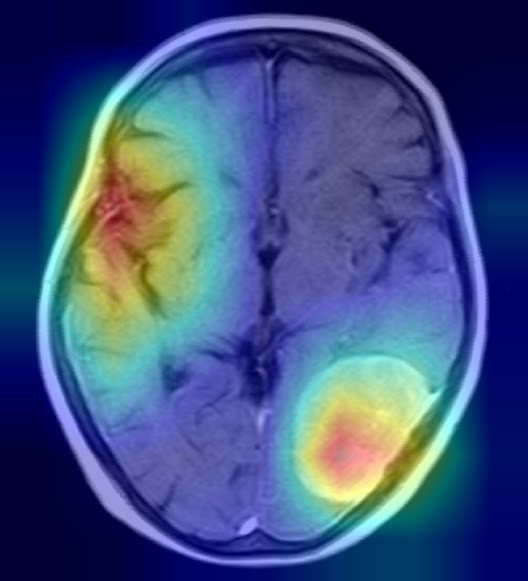
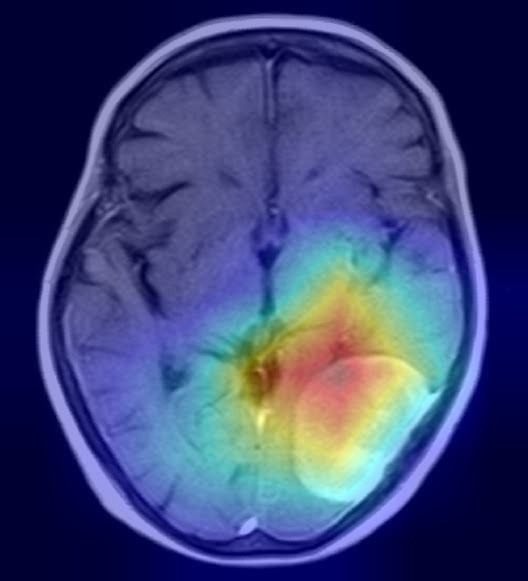
fixed

diff --git a/app.py b/app.py
@@ -1,94 +1,86 @@
+from flask import Flask, render_template, request
 import os
-import uuid
 import numpy as np
+from ultralytics import YOLO
 import google.generativeai as genai
 import tensorflow as tf
+from tensorflow.keras.models import load_model
 import cv2
 import matplotlib
 import markdown
-from flask import Flask, render_template, request
-from tensorflow.keras.models import load_model
-from ultralytics import YOLO
 from dotenv import load_dotenv
 from huggingface_hub import hf_hub_download
-from PIL import Image
-from werkzeug.utils import secure_filename
 
-# Konfigurasi awal
 matplotlib.use("Agg")
 load_dotenv()
-app = Flask(__name__)
 
-# Konfigurasi Kunci API dan Konstanta
+# API Key Gemini
 GEMINI_API_KEY = os.getenv("GEMINI_API_KEY")
-if not GEMINI_API_KEY:
-    raise ValueError("GEMINI_API_KEY tidak ditemukan di environment variables.")
 genai.configure(api_key=GEMINI_API_KEY)
 
+# Label klasifikasi
 LABELS = ["Glioma Tumor", "Normal", "Meningioma Tumor", "Pituitary Tumor"]
 IMAGE_SIZE = 224
+
+# Hugging Face repo ID
 HF_REPO_ID = "Revando/EfficientNet"
 
-# ======== Pra-muat Semua Model Saat Aplikasi Dimulai ========
-print("Memuat model, ini mungkin memakan waktu...")
-try:
-    CLASSIFICATION_MODELS = {
-        "efficientnet": {
-            "model": load_model(hf_hub_download(repo_id=HF_REPO_ID, filename="model/effnet.h5")),
-            "last_conv": "top_conv",
-        },
-        "resnet": {
-            "model": load_model(hf_hub_download(repo_id=HF_REPO_ID, filename="model/resnet.h5")),
-            "last_conv": "conv5_block3_out",
-        },
-        "vgg": {
-            "model": load_model(hf_hub_download(repo_id=HF_REPO_ID, filename="model/vgg.h5")),
-            "last_conv": "block5_conv2",
-        },
-        "densenet": {
-            "model": load_model(hf_hub_download(repo_id=HF_REPO_ID, filename="model/densenet.h5")),
-            "last_conv": "conv4_block24_concat",
-        },
-    }
-    print("✅ Model klasifikasi berhasil dimuat.")
-
-    yolo_path = hf_hub_download(repo_id=HF_REPO_ID, filename="model/yolo.pt")
-    YOLO_MODEL = YOLO(yolo_path)
-    print("✅ Model YOLO berhasil dimuat. Aplikasi siap.")
-except Exception as e:
-    print(f"❌ Gagal memuat model: {e}")
-    CLASSIFICATION_MODELS = {}
-    YOLO_MODEL = None
-
-# ======== Fungsi Utilitas ========
-def get_gemini_explanation(prompt_text, image_path):
-    """Mengirim teks dan gambar ke Gemini untuk mendapatkan penjelasan."""
+# ======== Utility Functions =========
+def get_gemini_explanation(prompt):
     try:
-        model = genai.GenerativeModel("gemini-1.5-flash-latest")
-        img = Image.open(image_path)
-        response = model.generate_content([prompt_text, img])
+        model = genai.GenerativeModel("gemini-2.5-pro")
+        response = model.generate_content(prompt)
         return response.text
     except Exception as e:
-        return f"Gagal menghasilkan penjelasan dari Gemini: {str(e)}"
+        return f"Gagal menghasilkan penjelasan: {str(e)}"
 
 
-def get_gradcam_heatmap(model, img_array, last_conv_layer_name):
-    """Membuat heatmap Grad-CAM."""
+def get_gradcam_heatmap(model, img_array, last_conv_layer_name, pred_index=None):
     grad_model = tf.keras.models.Model(
         [model.inputs], [model.get_layer(last_conv_layer_name).output, model.output]
     )
     with tf.GradientTape() as tape:
         conv_outputs, predictions = grad_model(img_array)
-        pred_index = tf.argmax(predictions[0])
+        if pred_index is None:
+            pred_index = tf.argmax(predictions[0])
         class_channel = predictions[:, pred_index]
     grads = tape.gradient(class_channel, conv_outputs)
     pooled_grads = tf.reduce_mean(grads, axis=(0, 1, 2))
-    heatmap = conv_outputs[0] @ pooled_grads[..., tf.newaxis]
+    conv_outputs = conv_outputs[0]
+    heatmap = conv_outputs @ pooled_grads[..., tf.newaxis]
     heatmap = tf.squeeze(heatmap)
     heatmap = tf.maximum(heatmap, 0) / tf.math.reduce_max(heatmap)
     return heatmap.numpy()
 
-# ======== Rute Aplikasi ========
+
+def load_selected_model(model_name):
+    if model_name == "efficientnet":
+        model_path = hf_hub_download(repo_id=HF_REPO_ID, filename="model/effnet.h5")
+        model = load_model(model_path)
+        last_conv = "top_conv"
+    elif model_name == "resnet":
+        model_path = hf_hub_download(repo_id=HF_REPO_ID, filename="model/resnet.h5")
+        model = load_model(model_path)
+        last_conv = "conv5_block3_out"
+    elif model_name == "vgg":
+        model_path = hf_hub_download(repo_id=HF_REPO_ID, filename="model/vgg.h5")
+        model = load_model(model_path)
+        last_conv = "block5_conv2"
+    elif model_name == "densenet":
+        model_path = hf_hub_download(repo_id=HF_REPO_ID, filename="model/densenet.h5")
+        model = load_model(model_path)
+        last_conv = "conv4_block24_concat"
+    else:
+        raise ValueError("Unknown model")
+    return model, last_conv
+
+
+# Load YOLO dari Hugging Face
+yolo_path = hf_hub_download(repo_id=HF_REPO_ID, filename="model/yolo.pt")
+yolo_model = YOLO(yolo_path)
+
+app = Flask(__name__)
+
 @app.route("/")
 def dashboard():
     return render_template("dashboard.html")
@@ -96,95 +88,111 @@ def dashboard():
 
 @app.route("/classify", methods=["GET", "POST"])
 def classify():
+    prediction, gradcam_filename, gradcam_only_filename = None, None, None
+    selected_model, classification_info, explanation_html, input_path = None, None, None, None  
+
     if request.method == "POST":
-        selected_model_name = request.form.get("model")
-        img_file = request.files.get("image")
-
-        if not selected_model_name or not img_file or img_file.filename == "":
-            return render_template("classify.html", error="Harap pilih model dan unggah gambar.")
-
-        # Buat nama file yang aman dan unik
-        filename = secure_filename(img_file.filename)
-        unique_filename = f"{uuid.uuid4().hex}_{filename}"
-        img_path = os.path.join("static", unique_filename)
+        selected_model = request.form["model"]
+        img_file = request.files["image"]
+        img_path = os.path.join("static", img_file.filename)
         img_file.save(img_path)
+        input_path = img_file.filename  
 
-        # Pra-pemrosesan gambar
+        # Preprocess image
         img = cv2.imread(img_path)
         img_resized = cv2.resize(img, (IMAGE_SIZE, IMAGE_SIZE))
         img_array = np.expand_dims(img_resized, axis=0)
 
-        # Dapatkan model yang sudah dimuat
-        model_data = CLASSIFICATION_MODELS.get(selected_model_name)
-        if not model_data:
-            return render_template("classify.html", error=f"Model '{selected_model_name}' tidak ditemukan.")
-        
-        model = model_data["model"]
-        last_conv = model_data["last_conv"]
-
-        # Prediksi
+        # Load classification model
+        model, last_conv = load_selected_model(selected_model)
         preds = model.predict(img_array)
-        prediction = LABELS[np.argmax(preds)]
+        pred_class = LABELS[np.argmax(preds)]
+        prediction = pred_class
 
-        # Buat Grad-CAM
+        # Grad-CAM heatmap
+        gradcam_filename = f"gradcam_{img_file.filename}"
+        gradcam_only_filename = f"heatmap_{img_file.filename}"
+        gradcam_path = os.path.join("static", gradcam_filename)
         heatmap = get_gradcam_heatmap(model, img_array, last_conv)
         heatmap = cv2.resize(heatmap, (img.shape[1], img.shape[0]))
         heatmap_uint8 = np.uint8(255 * heatmap)
         heatmap_color = cv2.applyColorMap(heatmap_uint8, cv2.COLORMAP_JET)
-        
-        gradcam_filename = f"gradcam_{unique_filename}"
-        gradcam_path = os.path.join("static", gradcam_filename)
+        gradcam_only_path = os.path.join("static", gradcam_only_filename)
+        cv2.imwrite(gradcam_only_path, heatmap_color)
         superimposed_img = cv2.addWeighted(img, 0.6, heatmap_color, 0.4, 0)
         cv2.imwrite(gradcam_path, superimposed_img)
 
-        # Dapatkan penjelasan dari Gemini
-        prompt = f"Analisis gambar MRI otak berikut, yang telah diklasifikasikan sebagai '{prediction}'. Fokus pada area yang disorot oleh heatmap Grad-CAM untuk menjelaskan kemungkinan lokasi dan karakteristik tumor. Berikan penjelasan ilmiah yang mudah dipahami dalam format Markdown."
-        explanation_md = get_gemini_explanation(prompt, gradcam_path)
-        explanation_html = markdown.markdown(explanation_md)
-
-        return render_template(
-            "classify.html",
-            prediction=prediction,
-            gradcam_path=gradcam_filename,
-            input_path=unique_filename,
-            selected_model=selected_model_name,
-            explanation=explanation_html,
+        # Gemini explanation
+        prompt = (
+            f"Saya mengirimkan gambar MRI otak yang telah diklasifikasikan sebagai: {prediction}.\n"
+            f"Saya juga melampirkan hasil visualisasi Grad-CAM pada gambar ini (file: {superimposed_img}). "
+            "Tolong analisis gambar Grad-CAM tersebut secara detail. "
+            "Jelaskan secara spesifik di mana letak area yang paling disorot oleh Grad-CAM pada gambar, "
+            "dan apakah area tersebut menunjukkan keberadaan tumor. "
+            "Jika terdapat tumor, sebutkan secara jelas lokasi atau area pada otak yang terindikasi. "
+            "Gunakan bahasa yang mudah dipahami namun tetap ilmiah. "
+            "Format penjelasan menggunakan Markdown."
         )
-    return render_template("classify.html")
+        classification_info = get_gemini_explanation(prompt)
+
+        if classification_info:
+            explanation_html = markdown.markdown(
+                classification_info, extensions=["fenced_code", "tables"]
+            )
+
+    return render_template(
+        "classify.html",
+        prediction=prediction,
+        gradcam_path=gradcam_filename,
+        gradcam_only_path=gradcam_only_filename,
+        input_path=input_path,
+        selected_model=selected_model,
+        explanation=explanation_html,
+    )
 
 
 @app.route("/segment", methods=["GET", "POST"])
 def segment():
+    segmented_path, segmentation_info, explanation_html, input_path = None, None, None, None  
+
     if request.method == "POST":
-        img_file = request.files.get("image")
-        if not img_file or img_file.filename == "":
-            return render_template("segment.html", error="Harap unggah gambar.")
+        image = request.files["image"]
+        image_path = os.path.join("static", image.filename)
+        image.save(image_path)
+        input_path = image.filename  
 
-        # Buat nama file yang aman dan unik
-        filename = secure_filename(img_file.filename)
-        unique_filename = f"{uuid.uuid4().hex}_{filename}"
-        img_path = os.path.join("static", unique_filename)
-        img_file.save(img_path)
-
-        # Segmentasi YOLO
-        results = YOLO_MODEL(img_path)
-        segmented_filename = f"hasil_{unique_filename}"
-        result_img_path = os.path.join("static", segmented_filename)
+        # YOLO segmentation
+        results = yolo_model(image_path)
+        result_img_path = f"static/hasil_{image.filename}"
         results[0].save(filename=result_img_path)
+        segmented_path = f"hasil_{image.filename}"
 
-        # Dapatkan penjelasan dari Gemini
-        prompt = "Analisis hasil segmentasi tumor otak pada gambar MRI berikut. Jelaskan lokasi, bentuk, dan karakteristik area yang tersegmentasi. Berikan penjelasan ilmiah yang mudah dipahami dalam format Markdown."
-        explanation_md = get_gemini_explanation(prompt, result_img_path)
-        explanation_html = markdown.markdown(explanation_md)
-
-        return render_template(
-            "segment.html",
-            segmented_path=segmented_filename,
-            input_path=unique_filename,
-            explanation=explanation_html,
+        # Gemini explanation
+        prompt = (
+            f"Saya mengirimkan gambar MRI otak yang telah melalui proses segmentasi tumor "
+            f"menggunakan YOLO (file: {segmented_path}). "
+            "Area yang tersegmentasi menunjukkan kemungkinan keberadaan tumor.\n\n"
+            "Tolong analisis hasil segmentasi ini secara detail:\n"
+            "- Sebutkan lokasi area yang ditandai oleh segmentasi.\n"
+            "- Deskripsikan jenis tumor, bentuk, ukuran relatif, dan karakteristik visual.\n"
+            "- Jelaskan apakah area tersebut konsisten dengan ciri-ciri tumor otak.\n\n"
+            "Gunakan bahasa yang mudah dipahami namun tetap ilmiah. "
+            "Format penjelasan menggunakan Markdown."
         )
-    return render_template("segment.html")
+        segmentation_info = get_gemini_explanation(prompt)
 
-# Jalankan aplikasi (hanya untuk local, Gunicorn akan menangani di produksi)
+        if segmentation_info:
+            explanation_html = markdown.markdown(
+                segmentation_info, extensions=["fenced_code", "tables"]
+            )
+
+    return render_template(
+        "segment.html",
+        segmented_path=segmented_path,
+        segmentation_info=explanation_html,
+        input_path=input_path,
+    )
+
+
 if __name__ == "__main__":
-    app.run(host="0.0.0.0", port=int(os.environ.get("PORT", 8080)), debug=True)
+    app.run(debug=True)
